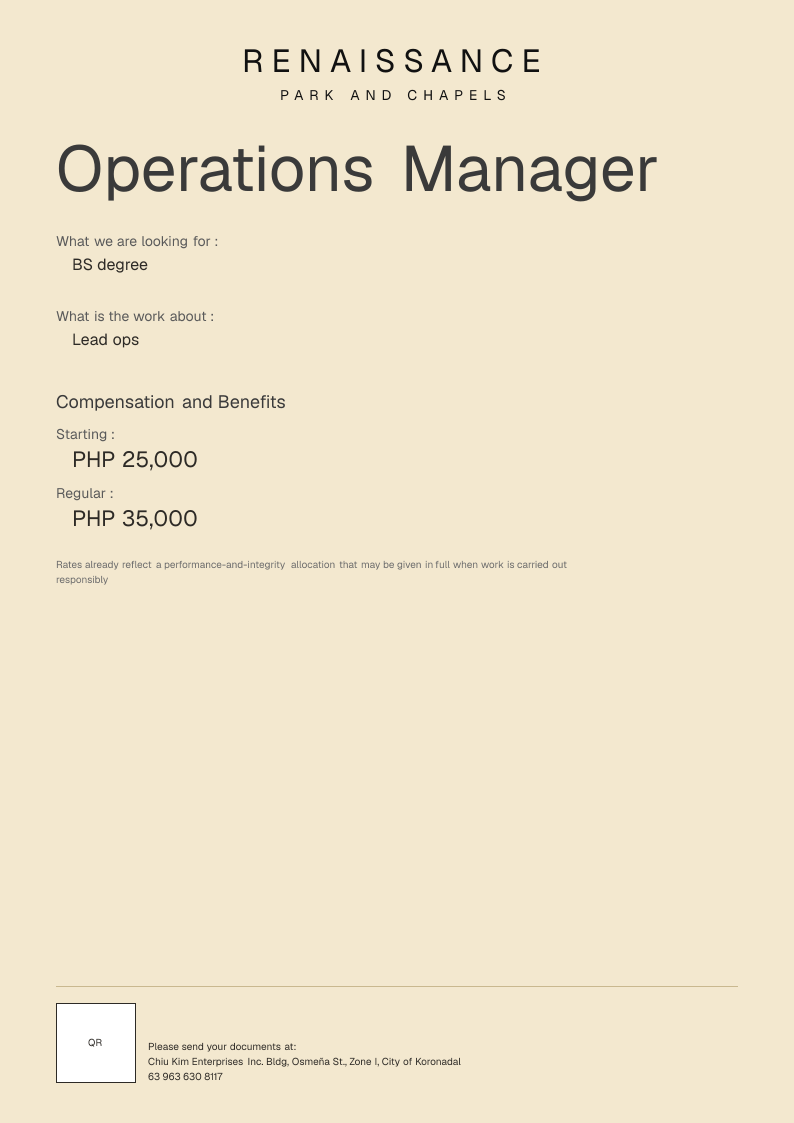
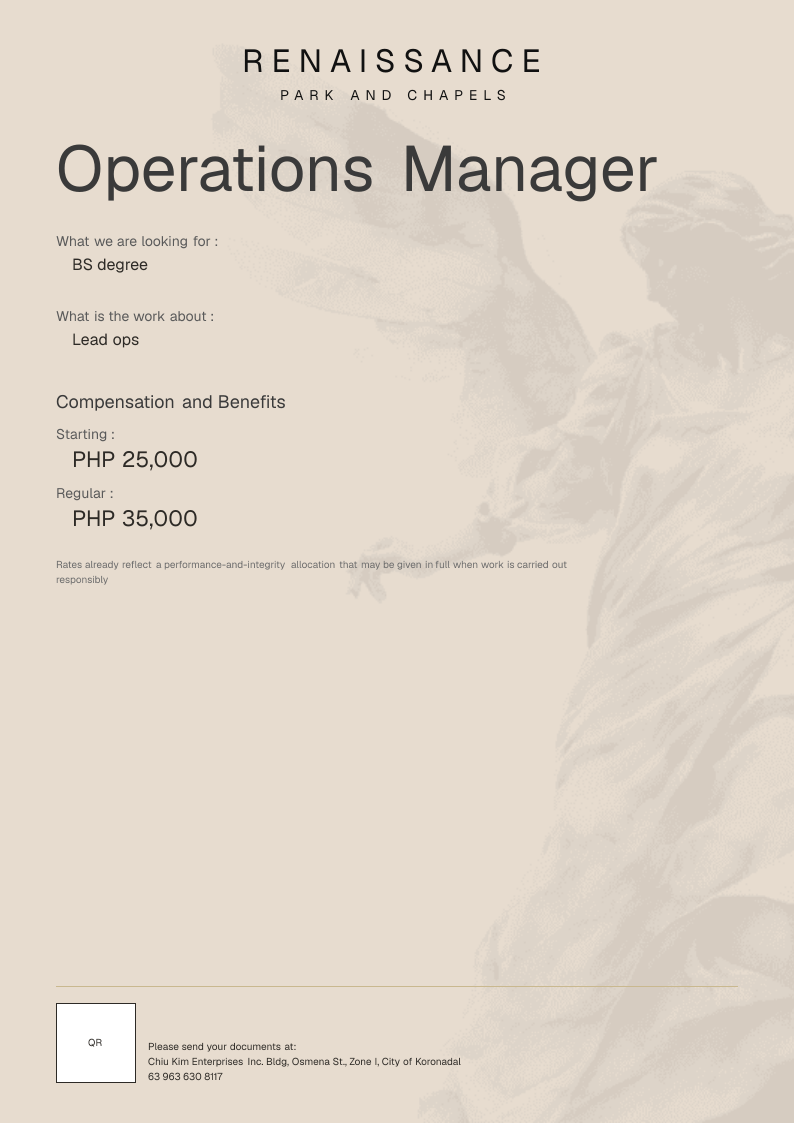
Refactor image route and update background data handling; add new cover image assets

diff --git a/app/auto_hiring/image/route.tsx b/app/auto_hiring/image/route.tsx
@@ -4,20 +4,6 @@ import { join } from "node:path";
 
 export const runtime = "nodejs";
 
-const WIDTH = 794;
-const HEIGHT = 1123;
-
-const DEFAULTS = {
-  positionName: "Position Name",
-  qualification: "Qualification",
-  workAbout: "Qualification",
-  startingRate: "Starting",
-  regularRate: "Regular",
-  companyName: "Chiu Kim Enterprises Inc.",
-  companyAddress: "Bldg, Osmeña St., Zone I, City of Koronadal",
-  companyPhone: "63 963 630 8117",
-};
-
 async function loadBgDataUrl(): Promise<string | null> {
   try {
     const buf = await readFile(
@@ -32,20 +18,20 @@ async function loadBgDataUrl(): Promise<string | null> {
 export async function GET(request: Request) {
   try {
     const { searchParams } = new URL(request.url);
-    const positionName = searchParams.get("position") ?? DEFAULTS.positionName;
-    const qualification =
-      searchParams.get("qualification") ?? DEFAULTS.qualification;
-    const workAbout = searchParams.get("work_about") ?? DEFAULTS.workAbout;
-    const startingRate = searchParams.get("starting") ?? DEFAULTS.startingRate;
-    const regularRate = searchParams.get("regular") ?? DEFAULTS.regularRate;
+    const template = searchParams.get("template") ?? "admin";
+    const isCover = template === "cover";
+    const position = searchParams.get("position") ?? "Position Name";
+    const qualification = searchParams.get("qualification") ?? "Qualification";
+    const workAbout = searchParams.get("work_about") ?? "Qualification";
+    const startingRate = searchParams.get("starting") ?? "Starting";
+    const regularRate = searchParams.get("regular") ?? "Regular";
     const companyName =
-      searchParams.get("company_name") ?? DEFAULTS.companyName;
+      searchParams.get("company_name") ?? "Chiu Kim Enterprises Inc.";
     const companyAddress =
-      searchParams.get("company_address") ?? DEFAULTS.companyAddress;
-    const companyPhone =
-      searchParams.get("company_phone") ?? DEFAULTS.companyPhone;
+      searchParams.get("company_address") ??
+      "Bldg, Osmena St., Zone I, City of Koronadal";
+    const companyPhone = searchParams.get("company_phone") ?? "63 963 630 8117";
     const qrCodeUrl = searchParams.get("qr");
-
     const bgDataUrl = await loadBgDataUrl();
 
     return new ImageResponse(
@@ -58,13 +44,14 @@ export async function GET(request: Request) {
             flexDirection: "column",
             padding: "40px 56px",
             backgroundColor: "#f3e8cf",
-            backgroundImage: bgDataUrl ? `url(${bgDataUrl})` : undefined,
-            backgroundSize: "cover",
-            backgroundPosition: "center",
+            ...(bgDataUrl && {
+              backgroundImage: `url(${bgDataUrl})`,
+              backgroundSize: "cover",
+              backgroundPosition: "center",
+            }),
             color: "#2d2a26",
           }}
         >
-          {/* Brand */}
           <div
             style={{
               display: "flex",
@@ -94,123 +81,196 @@ export async function GET(request: Request) {
             </div>
           </div>
 
-          {/* Position title */}
-          <div
-            style={{
-              marginTop: 32,
-              fontSize: 64,
-              fontWeight: 700,
-              color: "#3a3a3a",
-              lineHeight: 1,
-            }}
-          >
-            {positionName}
-          </div>
-
-          {/* Qualification */}
-          <div
-            style={{ marginTop: 32, display: "flex", flexDirection: "column" }}
-          >
-            <div style={{ fontSize: 14, fontStyle: "italic", color: "#5a5a5a" }}>
-              What we are looking for :
-            </div>
+          {isCover ? (
             <div
               style={{
-                marginTop: 4,
-                paddingLeft: 16,
-                fontSize: 16,
-                color: "#2d2a26",
+                marginTop: 120,
+                display: "flex",
+                flexDirection: "column",
+                alignItems: "center",
               }}
             >
-              {qualification}
+              <div
+                style={{
+                  fontSize: 20,
+                  letterSpacing: 6,
+                  color: "#8a6a3b",
+                }}
+              >
+                WE&apos;RE HIRING
+              </div>
+              <div
+                style={{
+                  marginTop: 24,
+                  fontSize: 80,
+                  fontWeight: 700,
+                  color: "#3a3a3a",
+                  lineHeight: 1,
+                }}
+              >
+                Join Our Team
+              </div>
+              <div
+                style={{
+                  marginTop: 32,
+                  width: 520,
+                  fontSize: 16,
+                  fontStyle: "italic",
+                  color: "#5a5a5a",
+                  textAlign: "center",
+                }}
+              >
+                Build meaningful spaces for families and generations to come.
+              </div>
             </div>
-          </div>
-
-          {/* Work about */}
-          <div
-            style={{ marginTop: 32, display: "flex", flexDirection: "column" }}
-          >
-            <div style={{ fontSize: 14, fontStyle: "italic", color: "#5a5a5a" }}>
-              What is the work about :
-            </div>
+          ) : (
             <div
               style={{
-                marginTop: 4,
-                paddingLeft: 16,
-                fontSize: 16,
-                color: "#2d2a26",
-              }}
-            >
-              {workAbout}
-            </div>
-          </div>
-
-          {/* Compensation */}
-          <div
-            style={{ marginTop: 40, display: "flex", flexDirection: "column" }}
-          >
-            <div style={{ fontSize: 18, fontWeight: 600, color: "#3a3a3a" }}>
-              Compensation and Benefits
-            </div>
-            <div
-              style={{
-                marginTop: 12,
-                fontSize: 14,
-                fontStyle: "italic",
-                color: "#5a5a5a",
-              }}
-            >
-              Starting :
-            </div>
-            <div
-              style={{
-                marginTop: 2,
-                paddingLeft: 16,
-                fontSize: 22,
+                marginTop: 32,
+                fontSize: 64,
                 fontWeight: 700,
-                color: "#2d2a26",
+                color: "#3a3a3a",
+                lineHeight: 1,
               }}
             >
-              {startingRate}
+              {position}
             </div>
+          )}
+
+          {!isCover && (
             <div
               style={{
-                marginTop: 10,
-                fontSize: 14,
-                fontStyle: "italic",
-                color: "#5a5a5a",
+                display: "flex",
+                flexDirection: "column",
               }}
             >
-              Regular :
-            </div>
-            <div
-              style={{
-                marginTop: 2,
-                paddingLeft: 16,
-                fontSize: 22,
-                fontWeight: 700,
-                color: "#2d2a26",
-              }}
-            >
-              {regularRate}
-            </div>
-          </div>
+              <div
+                style={{
+                  marginTop: 32,
+                  display: "flex",
+                  flexDirection: "column",
+                }}
+              >
+                <div
+                  style={{
+                    fontSize: 14,
+                    fontStyle: "italic",
+                    color: "#5a5a5a",
+                  }}
+                >
+                  What we are looking for :
+                </div>
+                <div
+                  style={{
+                    marginTop: 4,
+                    paddingLeft: 16,
+                    fontSize: 16,
+                    color: "#2d2a26",
+                  }}
+                >
+                  {qualification}
+                </div>
+              </div>
 
-          {/* Disclaimer */}
-          <div
-            style={{
-              marginTop: 24,
-              width: 560,
-              fontSize: 10,
-              lineHeight: 1.5,
-              color: "#6b6b6b",
-            }}
-          >
-            Rates already reflect a performance-and-integrity allocation that
-            may be given in full when work is carried out responsibly
-          </div>
+              <div
+                style={{
+                  marginTop: 32,
+                  display: "flex",
+                  flexDirection: "column",
+                }}
+              >
+                <div
+                  style={{
+                    fontSize: 14,
+                    fontStyle: "italic",
+                    color: "#5a5a5a",
+                  }}
+                >
+                  What is the work about :
+                </div>
+                <div
+                  style={{
+                    marginTop: 4,
+                    paddingLeft: 16,
+                    fontSize: 16,
+                    color: "#2d2a26",
+                  }}
+                >
+                  {workAbout}
+                </div>
+              </div>
 
-          {/* Footer */}
+              <div
+                style={{
+                  marginTop: 40,
+                  display: "flex",
+                  flexDirection: "column",
+                }}
+              >
+                <div
+                  style={{ fontSize: 18, fontWeight: 600, color: "#3a3a3a" }}
+                >
+                  Compensation and Benefits
+                </div>
+                <div
+                  style={{
+                    marginTop: 12,
+                    fontSize: 14,
+                    fontStyle: "italic",
+                    color: "#5a5a5a",
+                  }}
+                >
+                  Starting :
+                </div>
+                <div
+                  style={{
+                    marginTop: 2,
+                    paddingLeft: 16,
+                    fontSize: 22,
+                    fontWeight: 700,
+                    color: "#2d2a26",
+                  }}
+                >
+                  {startingRate}
+                </div>
+                <div
+                  style={{
+                    marginTop: 10,
+                    fontSize: 14,
+                    fontStyle: "italic",
+                    color: "#5a5a5a",
+                  }}
+                >
+                  Regular :
+                </div>
+                <div
+                  style={{
+                    marginTop: 2,
+                    paddingLeft: 16,
+                    fontSize: 22,
+                    fontWeight: 700,
+                    color: "#2d2a26",
+                  }}
+                >
+                  {regularRate}
+                </div>
+              </div>
+
+              <div
+                style={{
+                  marginTop: 24,
+                  width: 560,
+                  fontSize: 10,
+                  lineHeight: 1.5,
+                  color: "#6b6b6b",
+                }}
+              >
+                Rates already reflect a performance-and-integrity allocation
+                that may be given in full when work is carried out responsibly
+              </div>
+            </div>
+          )}
+
           <div
             style={{
               marginTop: "auto",
@@ -258,15 +318,13 @@ export async function GET(request: Request) {
               <div style={{ fontWeight: 700 }}>
                 Please send your documents at:
               </div>
-              <div style={{ marginTop: 2 }}>
-                {companyName} {companyAddress}
-              </div>
+              <div style={{ marginTop: 2 }}>{`${companyName} ${companyAddress}`}</div>
               <div style={{ marginTop: 2 }}>{companyPhone}</div>
             </div>
           </div>
         </div>
       ),
-      { width: WIDTH, height: HEIGHT },
+      { width: 794, height: 1123 },
     );
   } catch (err) {
     return new Response(
